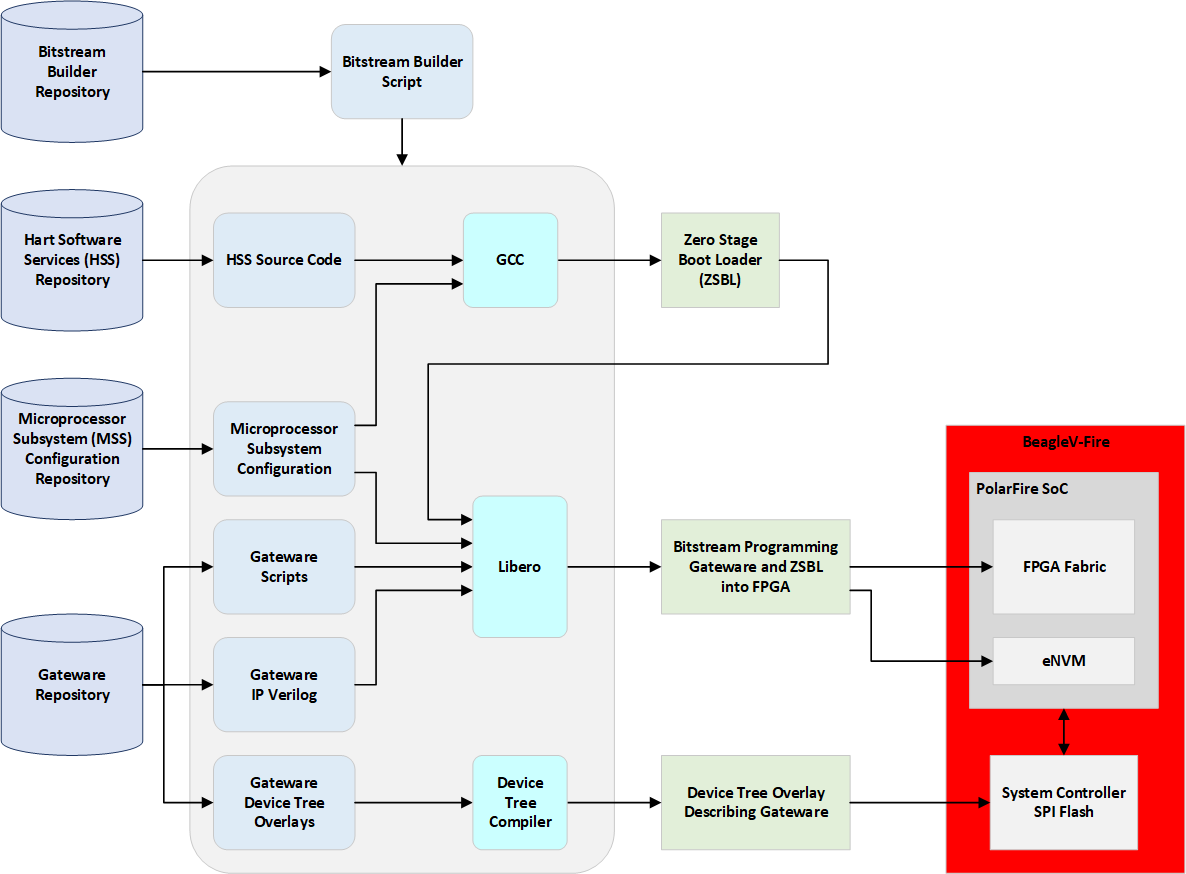
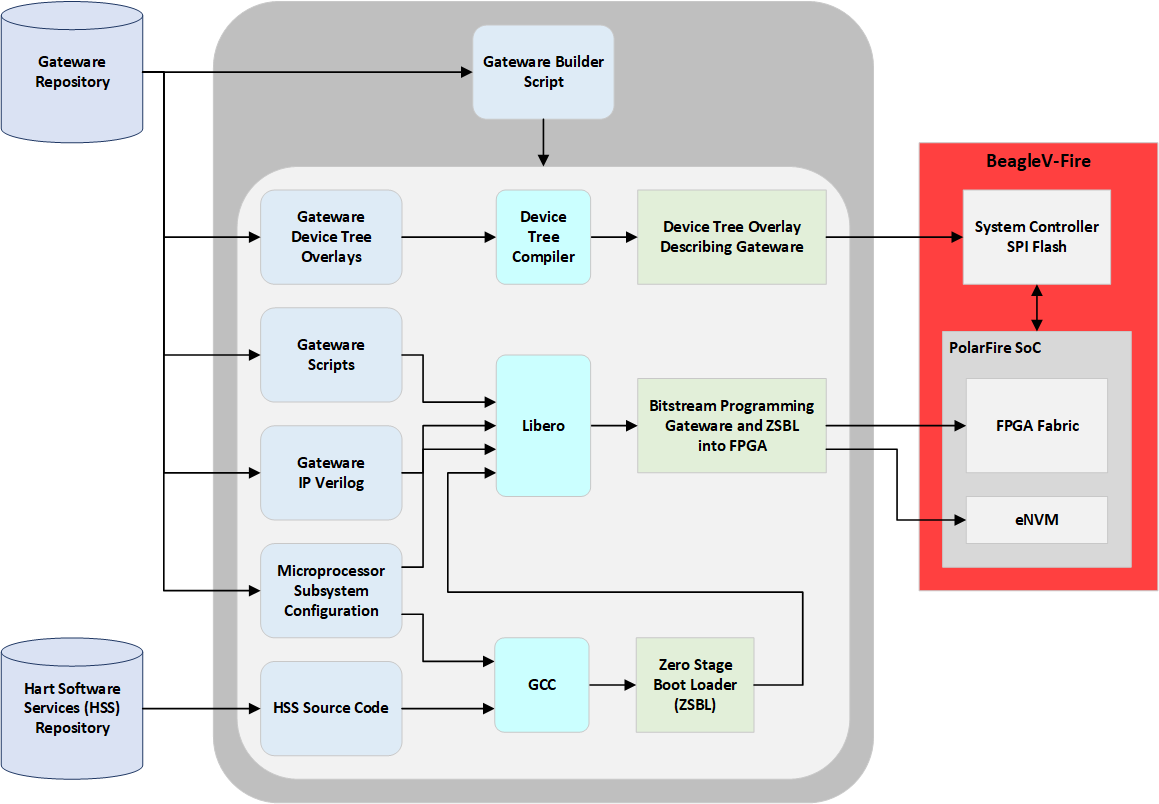
BVF: Add gateware full flow overview.

diff --git a/boards/beaglev/fire/demos-and-tutorials/gateware/gateware-full-flow.rst b/boards/beaglev/fire/demos-and-tutorials/gateware/gateware-full-flow.rst
@@ -1,0 +1,75 @@
+Gateware Full Build Flow
+########################
+
+Introduction
+============
+
+The BeagleV-Fire gateware is made up of several components:
+
+- Digital design for the FPGA fabric. This can a combination of:
+  
+  - HDL/Verilog source code 
+  - TCL scripts configuring IP blocks
+  - TCL scripts stiching IP blocks together
+  - Microprocessor Subsystem (MSS) configuration describing the MSS port list
+  - pin, placement and timing constraints
+- Microprocessor Subsystem (MSS) configuration containing MSS configuration register values
+- A zero stage bootloader (HSS) that will:
+  
+  - Provision the MSS configuration into chip configuration registers:
+  
+    - Setup clocks
+    - Configure memory controllers
+    - Configure IOs
+    - Configure transceivers
+  
+  - Retrieve the next boot stage from eMMc and hand-over to the next boot stage (e.g. u-boot)
+  - Make the board appear as a USB mass-storage for populating the eMMC with secondary boot-loader and operating system image.
+- A set of device tree ovelays describing the content of the FPGA fabric.
+
+Of course all these components need to be in synch with each other for the system to work properly.
+This is the reason for using a gateware build system rather than building and tracking each component individually.
+
+.. figure:: media/Gateware-Flow-bitstream-builder-full-picture.png
+    :align: center
+    :alt: BeagleV-Fire Gateware Full Build Flow
+
+Programming artifacts
+=====================
+
+The BeagleV-Fire gateware builder produces two programming artifacts:
+
+- A bitstream containing the FPGA fabric and eNVM programming
+- A device tree overlay describing the FPGA content.
+
+These two artifacts are packaged differently depending on the programming method. They are merged
+into a single programming file for DirectC (.dat) and FlashPro Express (.job). They are kept
+separate for Linux programming (mpfs_bitstream.spi and mpfs_dtbo.spi).
+
+Programming BeagleV-Fire with new gateware
+==========================================
+
+There are several methods possible for programming the BeagleV-Fire with new gateware:
+
+- Linux script executed on the BeagleV-Fire board.
+- Running DirectC on anothe single board computer
+- Using Microchip's FlashPro Express
+
+Linux script
+------------
+This is the recommended approach. It does not require any additional hardware. Simply run the script
+located in /usr/share/beagleboard/gateware. You should use this methods unless you have soft-bricked
+your BeagleV-Fire.
+
+DirectC
+-------
+This approach uses a single board computer (SBC) connected to the BeagleV-Fire JTAG port. The SBC
+bit-bangs the FPGA programming protocol over GPIOs. This approach is only required for recovering
+a soft-bricked BeagleV-Fire.
+
+FlashPro Express
+----------------
+This approach uses Microchip's FlashPro Express programming software and a FlashPro6 JTAG programmer.
+I would recommend using the Linux script even if you are an existing Microchip FPGA user with all the
+tools. This approach makes most sense when doing bare metal software development and already have a
+FlashPro programmer and don't care about device tree overlays.

diff --git a/boards/beaglev/fire/05-demos.rst b/boards/beaglev/fire/05-demos.rst
@@ -18,3 +18,4 @@ Demos
     demos-and-tutorials/mchp-fpga-tools-installation-guide
     demos-and-tutorials/gateware/index
     demos-and-tutorials/gateware/how-to-find-out-whats-on-the-board
+    demos-and-tutorials/gateware/gateware-full-flow
